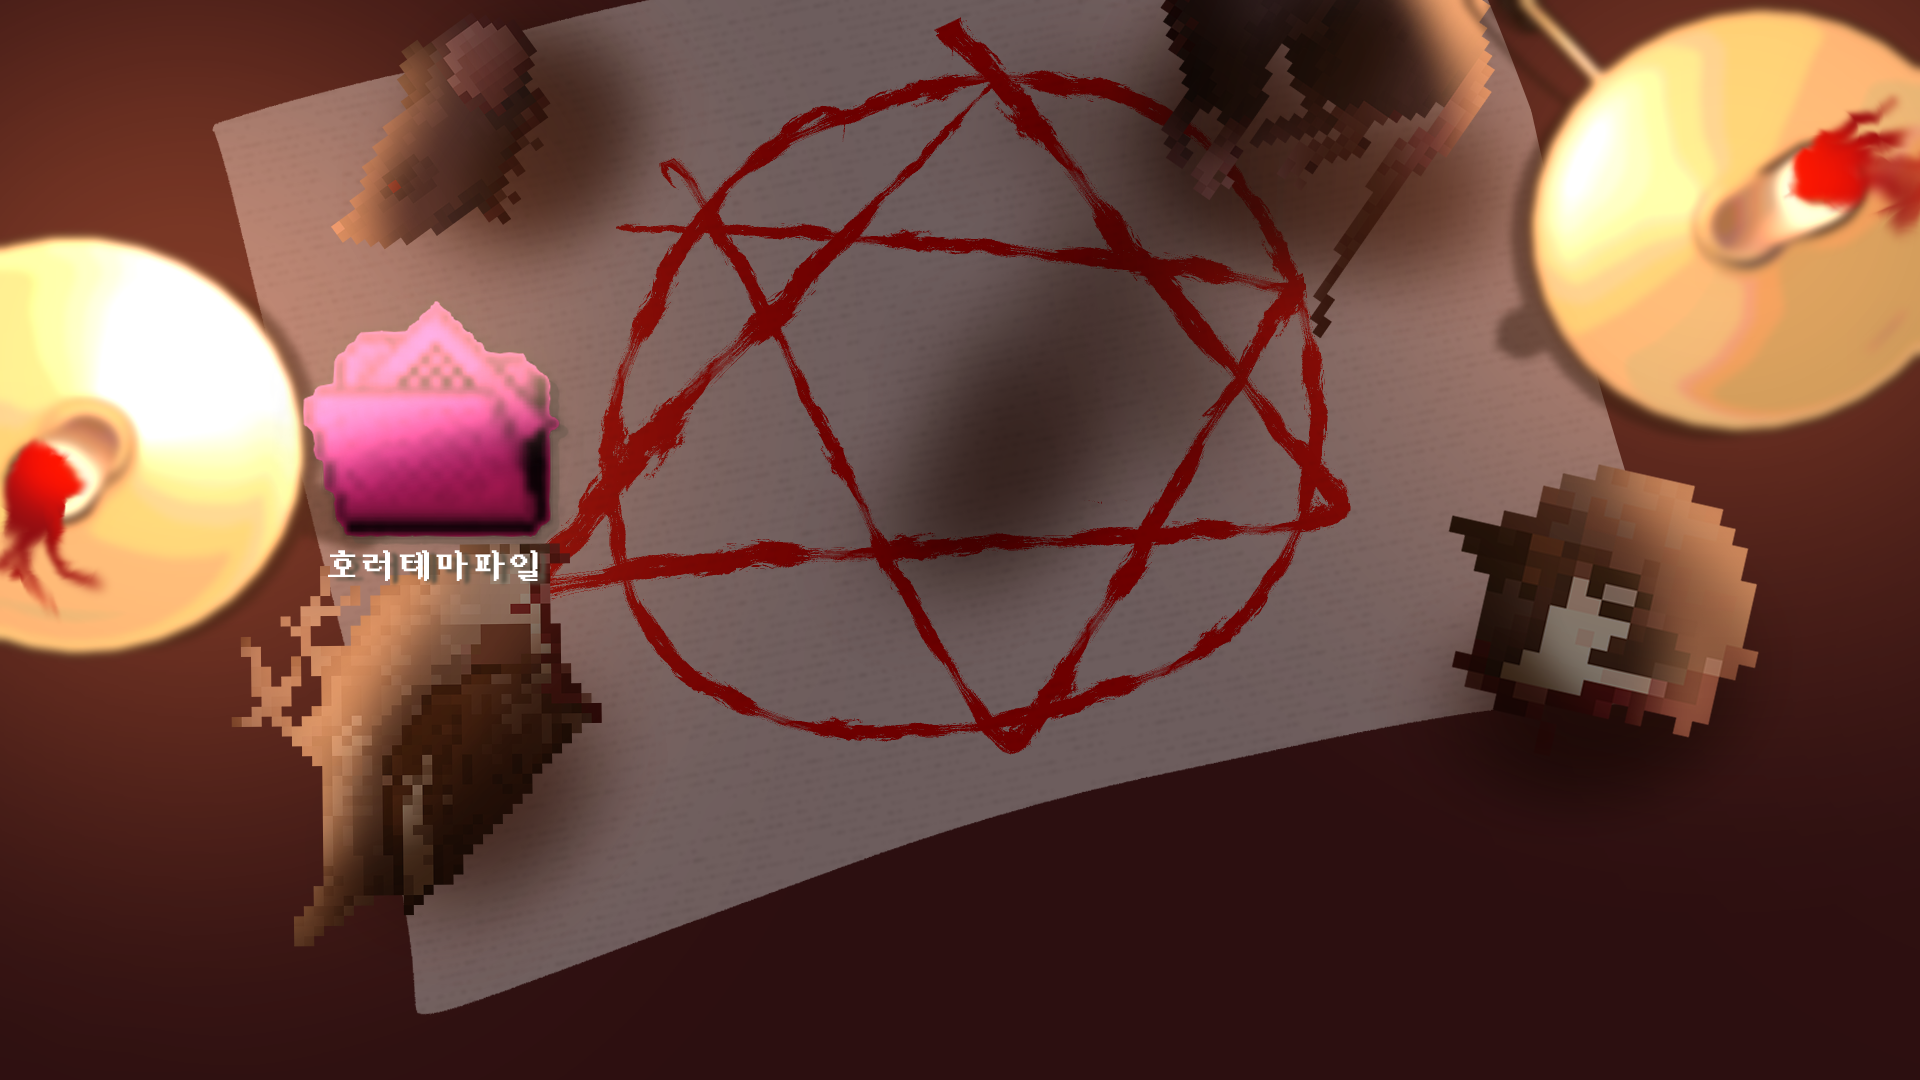
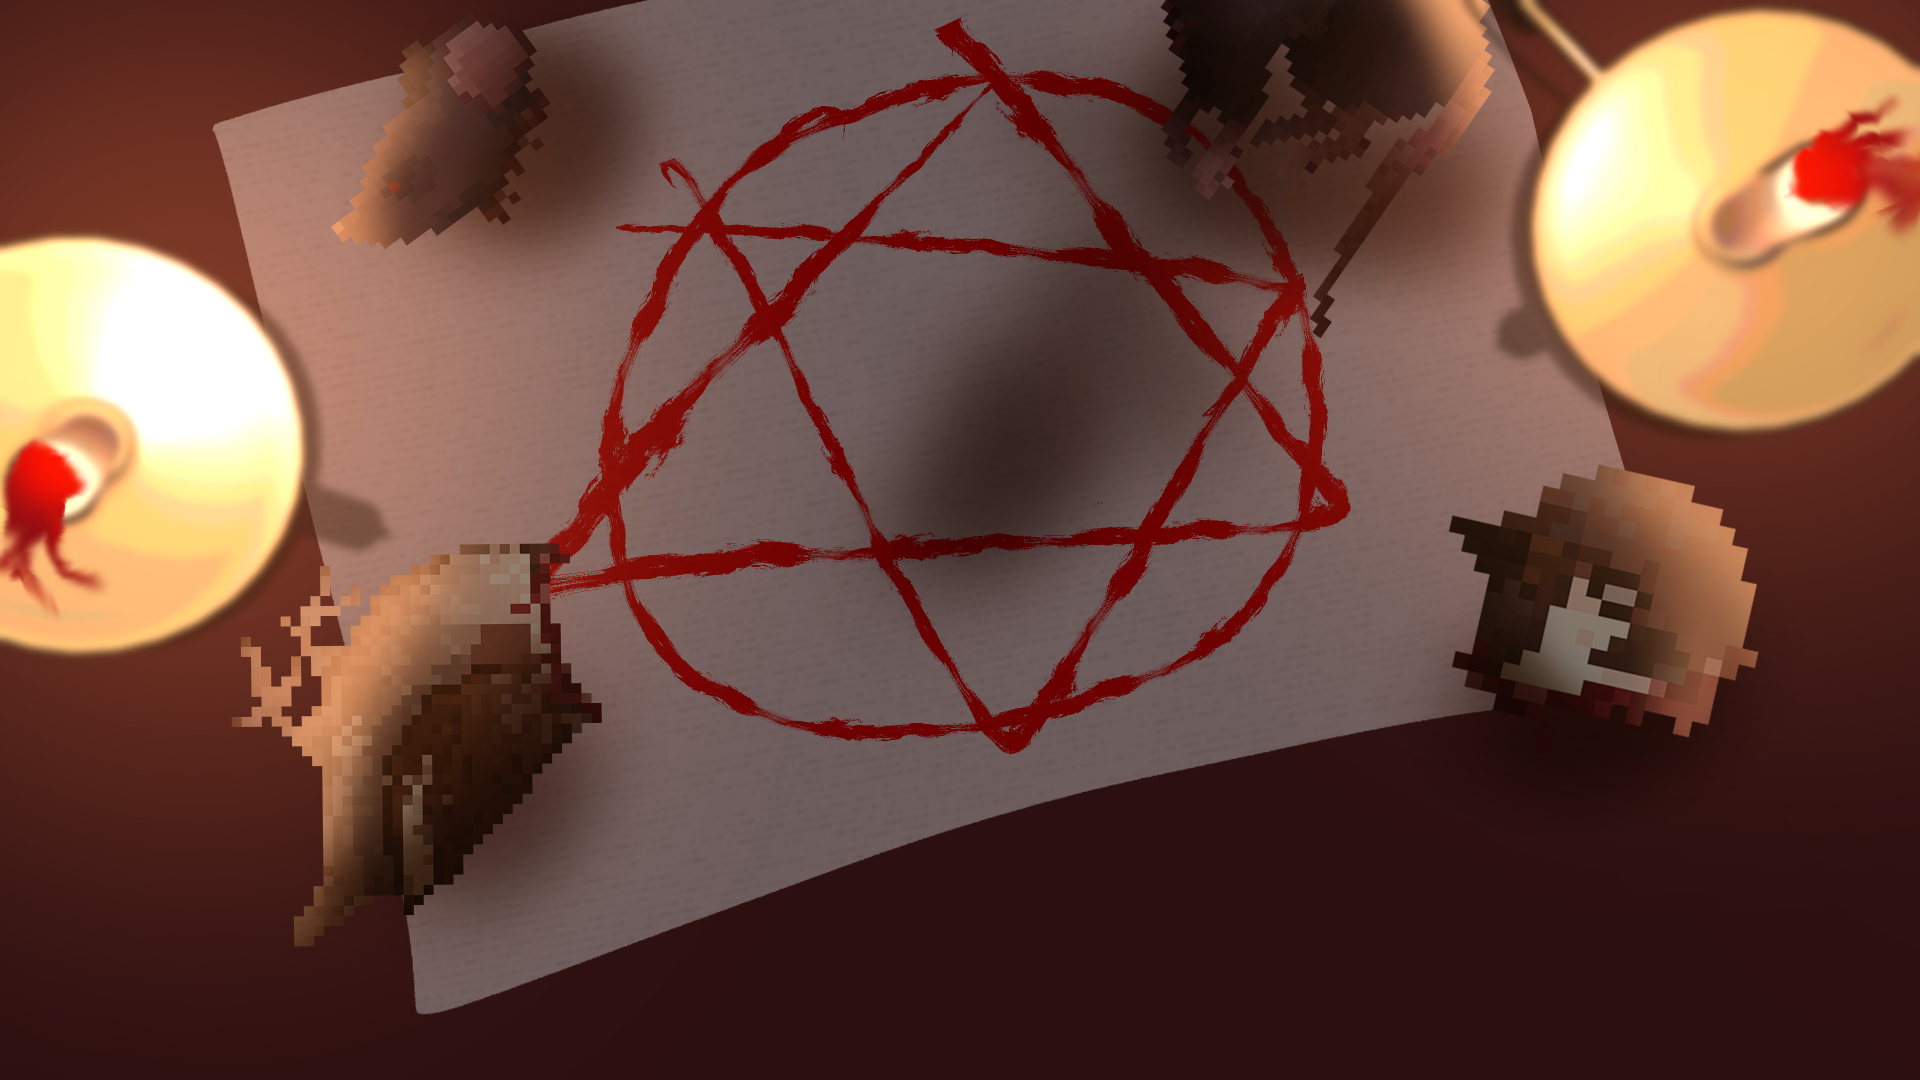
1108

Changed region(s): [[0.1562, 0.275, 0.3125, 0.55]]

diff --git a/Assets/script/ObjDrop.cs b/Assets/script/ObjDrop.cs
@@ -2,41 +2,38 @@ using System.Collections;
 using System.Collections.Generic;
 using UnityEngine;
 using UnityEngine.UI;
+using UnityEngine.EventSystems;
 
-public class ObjDrop : MonoBehaviour
+public class ObjDrop : MonoBehaviour, IBeginDragHandler, IDragHandler, IEndDragHandler, IDropHandler
 {
-    //Image sr;
-    //Item item;
+    
 
-    //public void InitItem(Item i)
-    //{
-    //    item = i;
-    //    sr = GetComponent<Image>();
-    //    sr.sprite = item.itemImg;
-    //}
 
-    //private void OnMouseDown()
-    //{
-        
-    //}
+    public void OnBeginDrag(PointerEventData eventData)
+    {
+        Debug.Log("1");
+    }
 
-    //private void OnMouseDrag()
-    //{
-       
-    //}
+    public void OnDrag(PointerEventData eventData)
+    {
+        transform.position = eventData.position;
+    }
 
-    //private void OnMouseUp()
-    //{
-        
-    //}
+    public void OnDrop(PointerEventData eventData)
+    {
+        Debug.Log("3");
+    }
 
-    //private void OnTriggerEnter2D(Collider2D collision)
-    //{
-        
-    //}
+    public void OnEndDrag(PointerEventData eventData)
+    {
 
-    //private void OnTriggerExit2D(Collider2D collision)
-    //{
-        
-    //}
+        Debug.Log("4");
+    }
+
+    
+
+
 }
+
+
+
